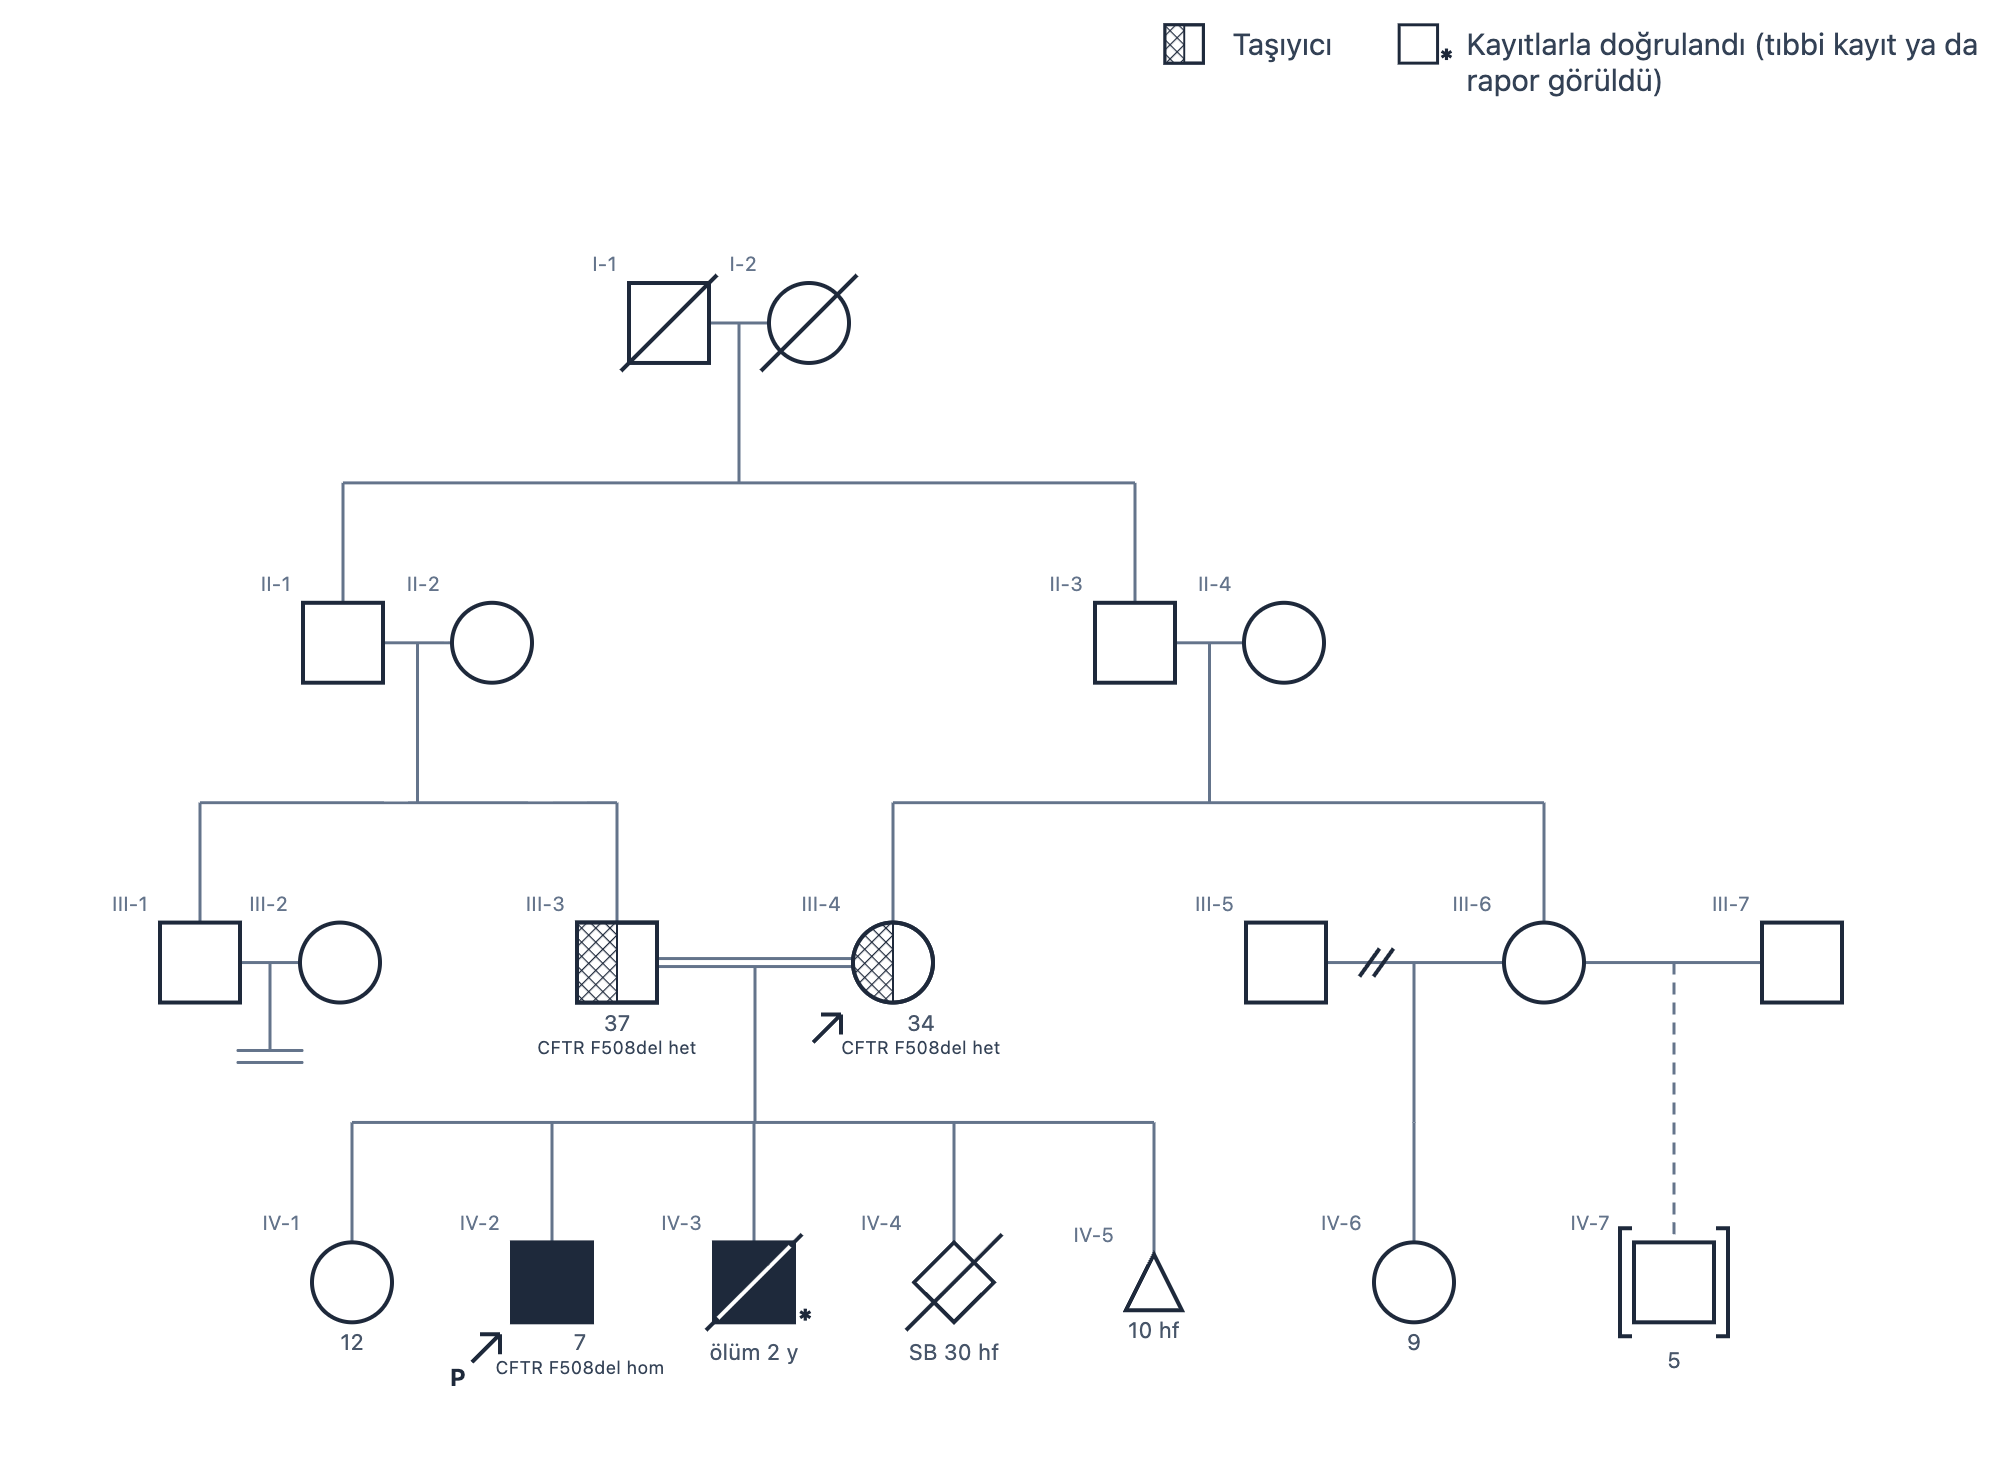
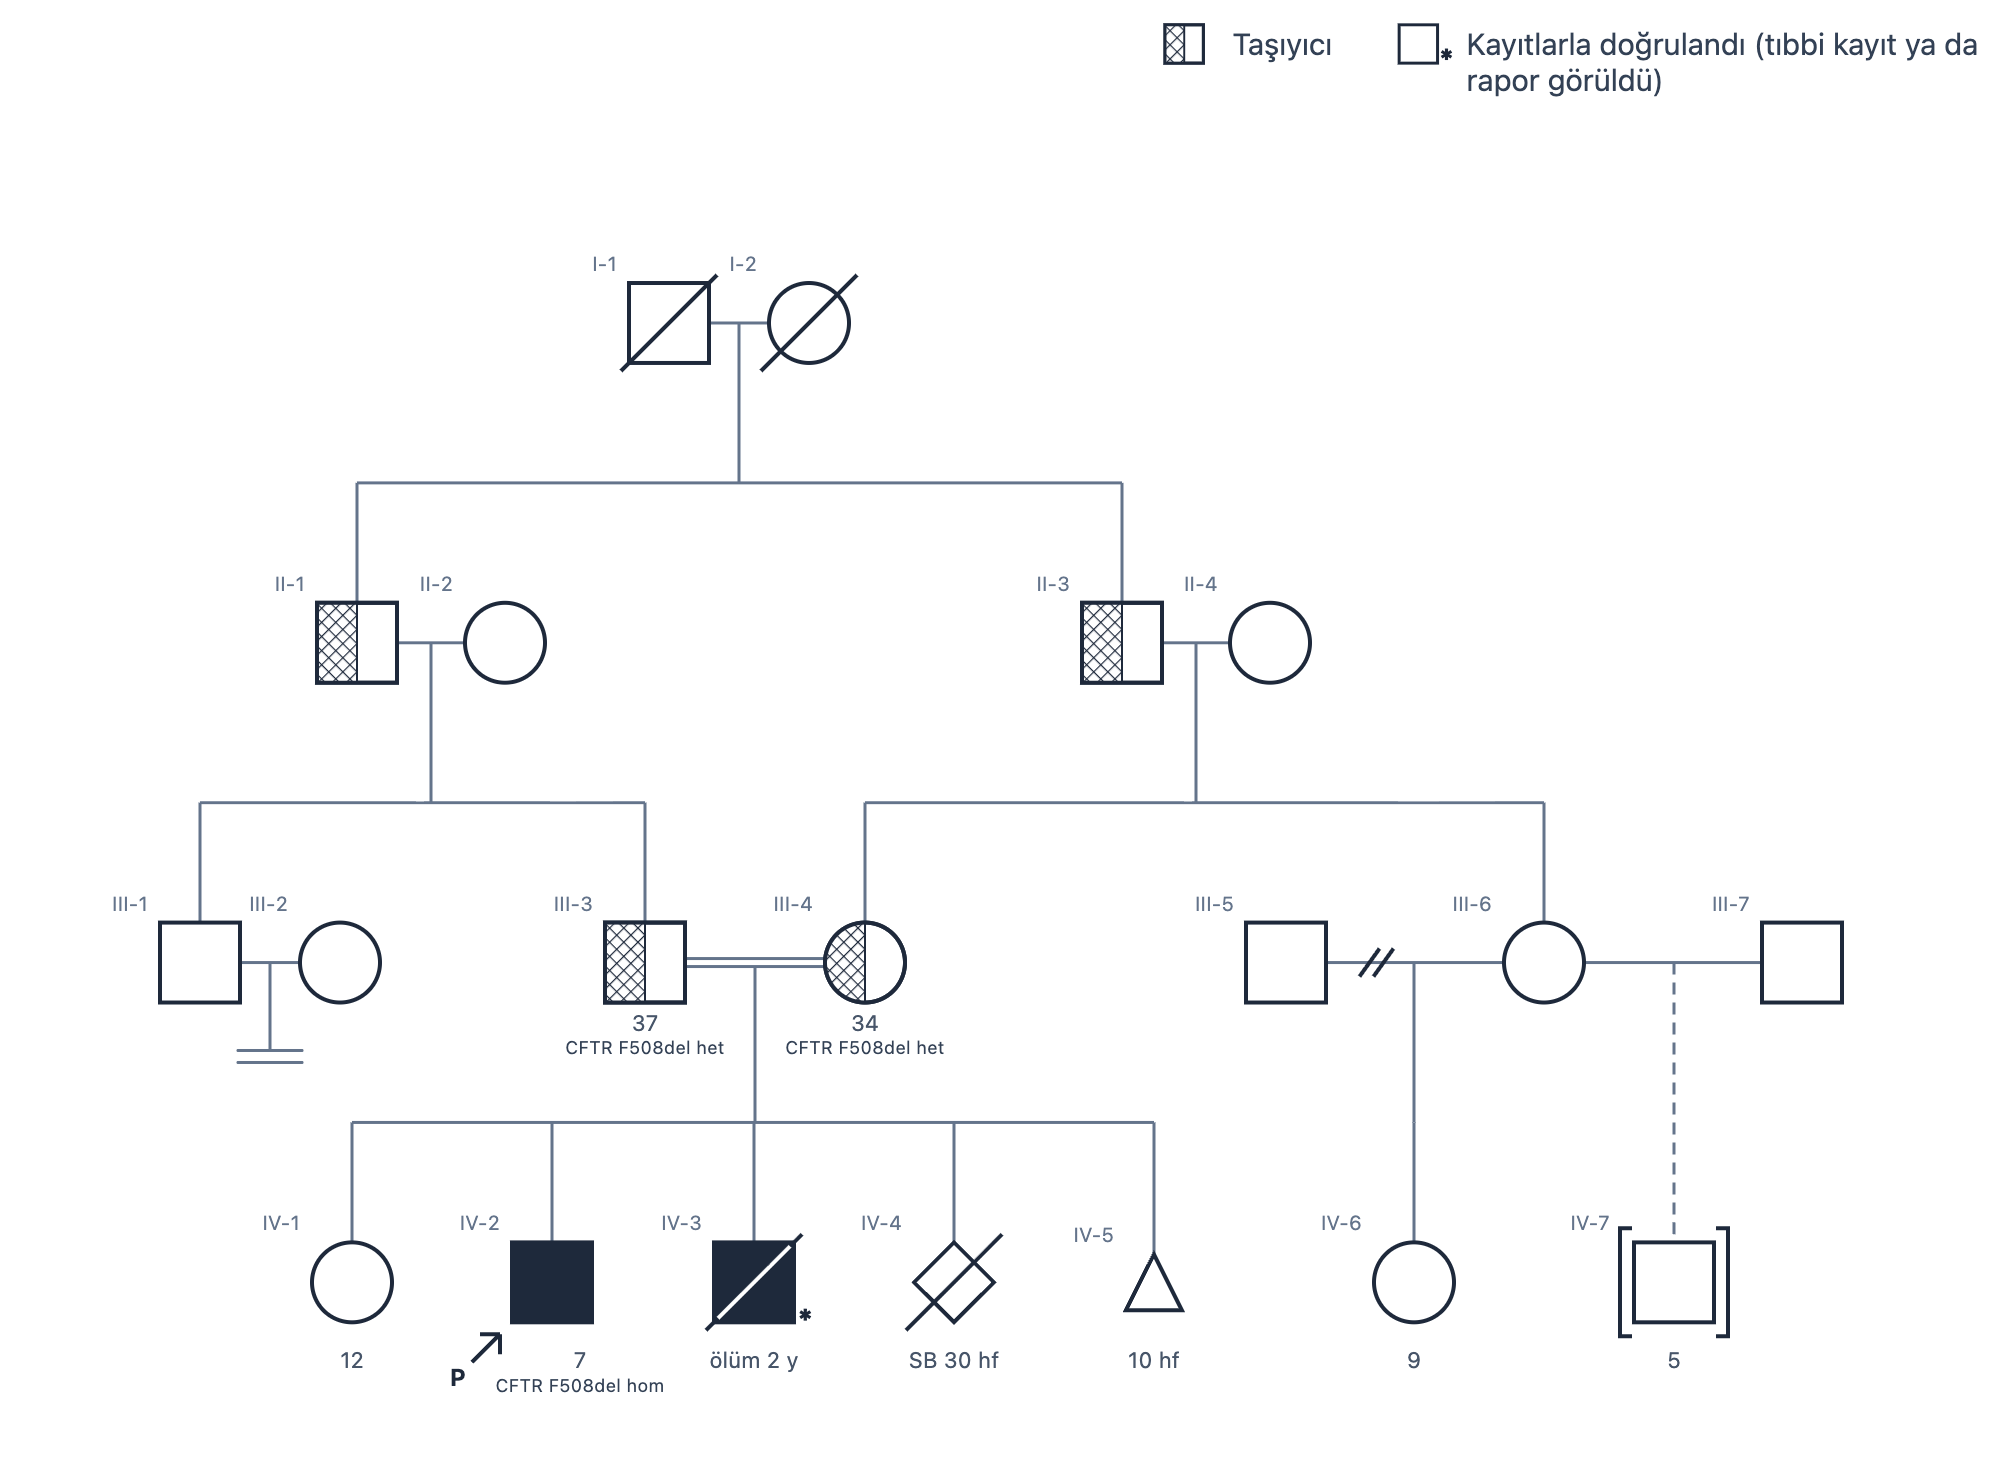
README sample: carriers one generation up, the proband as consultand
Clinician request 2026-11-15: the carrier status shown in the grandparents' generation too (the two
brothers through whom it came down to both first-cousin parents), the proband also the consultand
(one arrow with P; the mother is no longer marked), and the text under each row at one height
(previous commit). Drawn in the app with "Konumlandır": no step, no layout or graph issue.

diff --git a/README.md b/README.md
@@ -20,8 +20,8 @@
 </p>
 
 <p align="center">
-  <img src="docs/images/example-pedigree.png" alt="A sample pedigree drawn in PediTree: deceased great-grandparents; parents who are first cousins (double line), both carriers with their genetic test result, the mother as consultand; an affected proband, an affected brother who died at age 2 with records reviewed, a sister, a stillbirth and a miscarriage; an uncle and his wife as an infertile couple; an aunt divorced from her first partner, with a daughter, and an adopted son with her second partner" width="680">
-  <br><sub>A sample family (no patient data): first-cousin carrier parents with their genetic test results; an affected proband and an affected brother who died at 2, a stillbirth and a miscarriage; an infertile couple; a divorce, a second partner and an adopted son.</sub>
+  <img src="docs/images/example-pedigree.png" alt="A sample pedigree drawn in PediTree: deceased great-grandparents; their two sons, both carriers; the sons' children, first cousins, married (double line), both carriers with their genetic test result; their son, the proband and consultand, affected; an affected brother who died at age 2 with records reviewed, a sister, a stillbirth and a miscarriage; an uncle and his wife as an infertile couple; an aunt divorced from her first partner, with a daughter, and an adopted son with her second partner" width="680">
+  <br><sub>A sample family (no patient data): the carrier status passed down two generations to first-cousin parents, with their genetic test results; an affected proband and an affected brother who died at 2, a stillbirth and a miscarriage; an infertile couple; a divorce, a second partner and an adopted son.</sub>
 </p>
 
 ---
